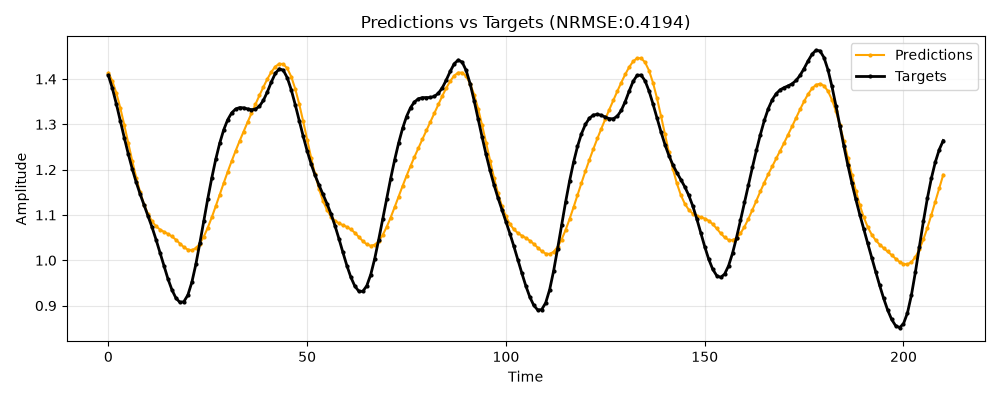
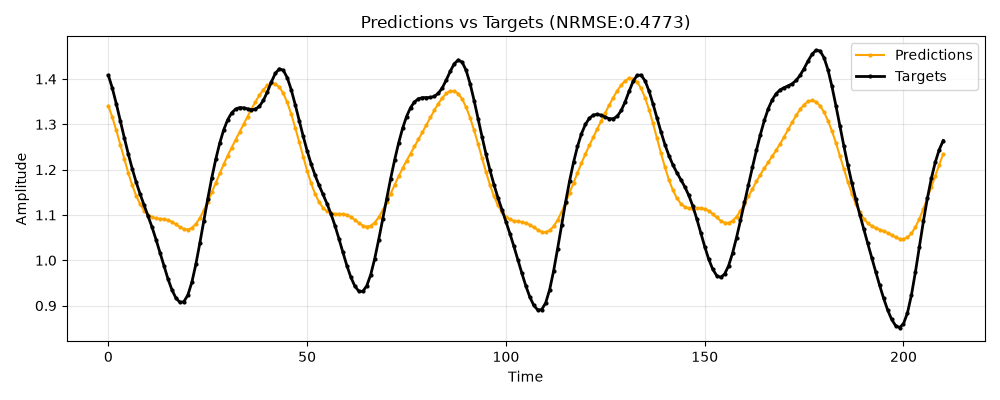
more tests for qubit and cavity vs delay.

diff --git a/classes/RC.py b/classes/RC.py
@@ -268,6 +268,61 @@ class RC(ABC):
         return float(np.sum(capacity_array)), capacity_array
     
 
+#Helper functions
+def plot_ipc_by_degree(capacities_list, total_capacity:float, figsize=(10, 4.5), save_path=None):
+    """
+    Plots IPC breakdown grouped by degree D = sum(degrees), showing absolute capacity
+    and fractional contribution per degree similar to Dambre et al. (2012).
+    
+    Parameters:
+        capacities_dict (dict): Dictionary mapping ((deg1, deg2, ...), (tau1, tau2, ...)) -> C_i
+        total_capacity (float, optional): Sum of all capacities. Calculated if None.
+        figsize (tuple): Dimensions of the figure.
+        save_path (str, optional): File path to save the plot.
+    """
+
+
+    # 2. Calculate fractional capacities per degree
+    fractions = capacities_list / total_capacity if total_capacity > 0 else np.zeros_like(capacities_list)
+
+    # 3. Create two-panel plot (Absolute & Fractional)
+    fig, (ax1, ax2) = plt.subplots(1, 2, figsize=figsize)
+
+    colors = plt.cm.viridis(np.linspace(0.2, 0.8, len(capacities_list)))
+
+    # Panel 1: Absolute Capacity per Degree (C_D)
+    bars1 = ax1.bar([f"Deg {d}" for d in range(1,len(capacities_list)+1)], capacities_list, color=colors, edgecolor="black", alpha=0.85)
+    ax1.set_ylabel("Absolute Capacity $C_D$", fontsize=11)
+    ax1.set_title("Capacity per Degree $D$", fontsize=12, fontweight="bold")
+    ax1.grid(axis="y", linestyle="--", alpha=0.5)
+
+    # Add numeric labels on top of absolute capacity bars
+    for bar in bars1:
+        yval = bar.get_height()
+        ax1.text(bar.get_x() + bar.get_width()/2.0, yval + 0.01 * max(capacities_list), 
+                 f"{yval:.3f}", ha="center", va="bottom", fontsize=9)
+
+    # Panel 2: Fraction of Total Capacity (C_D / C_total)
+    bars2 = ax2.bar([f"Deg {d}" for d in range(1,len(capacities_list)+1)], fractions * 100, color=colors, edgecolor="black", alpha=0.85)
+    ax2.set_ylabel("Fraction of Total Capacity (%)", fontsize=11)
+    ax2.set_title(f"Degree Contribution ($C_{{total}} = {total_capacity:.2f}$)", fontsize=12, fontweight="bold")
+    ax2.set_ylim(0, 105)
+    ax2.grid(axis="y", linestyle="--", alpha=0.5)
+
+    # Add percentage labels on top of fractional bars
+    for bar in bars2:
+        yval = bar.get_height()
+        ax2.text(bar.get_x() + bar.get_width()/2.0, yval + 1.5, 
+                 f"{yval:.1f}%", ha="center", va="bottom", fontsize=9, fontweight="bold")
+
+    plt.tight_layout()
+
+    if save_path:
+        plt.savefig(save_path, dpi=300, bbox_inches="tight")
+
+    plt.show()
+
+
 
 @dataclass(kw_only=True)
 class RC_Classification(RC):

diff --git a/test_scripts/test_IPC_JJ.py b/test_scripts/test_IPC_JJ.py
@@ -10,59 +10,6 @@ import matplotlib.pyplot as plt
 from pathlib import Path
 from collections import defaultdict
 
-def plot_ipc_by_degree(capacities_list, total_capacity:float, figsize=(10, 4.5), save_path=None):
-    """
-    Plots IPC breakdown grouped by degree D = sum(degrees), showing absolute capacity
-    and fractional contribution per degree similar to Dambre et al. (2012).
-    
-    Parameters:
-        capacities_dict (dict): Dictionary mapping ((deg1, deg2, ...), (tau1, tau2, ...)) -> C_i
-        total_capacity (float, optional): Sum of all capacities. Calculated if None.
-        figsize (tuple): Dimensions of the figure.
-        save_path (str, optional): File path to save the plot.
-    """
-
-
-    # 2. Calculate fractional capacities per degree
-    fractions = capacities_list / total_capacity if total_capacity > 0 else np.zeros_like(capacities_list)
-
-    # 3. Create two-panel plot (Absolute & Fractional)
-    fig, (ax1, ax2) = plt.subplots(1, 2, figsize=figsize)
-
-    colors = plt.cm.viridis(np.linspace(0.2, 0.8, len(capacities_list)))
-
-    # Panel 1: Absolute Capacity per Degree (C_D)
-    bars1 = ax1.bar([f"Deg {d}" for d in range(1,len(capacities_list)+1)], capacities_list, color=colors, edgecolor="black", alpha=0.85)
-    ax1.set_ylabel("Absolute Capacity $C_D$", fontsize=11)
-    ax1.set_title("Capacity per Degree $D$", fontsize=12, fontweight="bold")
-    ax1.grid(axis="y", linestyle="--", alpha=0.5)
-
-    # Add numeric labels on top of absolute capacity bars
-    for bar in bars1:
-        yval = bar.get_height()
-        ax1.text(bar.get_x() + bar.get_width()/2.0, yval + 0.01 * max(capacities_list), 
-                 f"{yval:.3f}", ha="center", va="bottom", fontsize=9)
-
-    # Panel 2: Fraction of Total Capacity (C_D / C_total)
-    bars2 = ax2.bar([f"Deg {d}" for d in range(1,len(capacities_list)+1)], fractions * 100, color=colors, edgecolor="black", alpha=0.85)
-    ax2.set_ylabel("Fraction of Total Capacity (%)", fontsize=11)
-    ax2.set_title(f"Degree Contribution ($C_{{total}} = {total_capacity:.2f}$)", fontsize=12, fontweight="bold")
-    ax2.set_ylim(0, 105)
-    ax2.grid(axis="y", linestyle="--", alpha=0.5)
-
-    # Add percentage labels on top of fractional bars
-    for bar in bars2:
-        yval = bar.get_height()
-        ax2.text(bar.get_x() + bar.get_width()/2.0, yval + 1.5, 
-                 f"{yval:.1f}%", ha="center", va="bottom", fontsize=9, fontweight="bold")
-
-    plt.tight_layout()
-
-    if save_path:
-        plt.savefig(save_path, dpi=300, bbox_inches="tight")
-
-    plt.show()
-
 
 
 training_data_size = 1000

diff --git a/test_scripts/test_QRC.py b/test_scripts/test_QRC.py
@@ -165,7 +165,7 @@ def custom_dissipator(N, destroy_index):
 def create_qubit(delay=1,washout=0,window_size = 20,kappa=2.7,pulse_duration =.1, pulse_time_steps = 100):
     N = 2
     initial_state = qt.basis(2,0)
-    measurement_ops = [qt.sigmaz(),qt.sigmay(),qt.qeye(2)]
+    measurement_ops = [qt.sigmaz(),qt.sigmay()]
     kappa = kappa
     
 
@@ -302,6 +302,7 @@ def run_delay_sweep(delay_min,delay_max,step=5,kappa = 2.7):
     plt.savefig(os.path.join(os.path.curdir,"delay_error.png"))
 
 
+
 run_delay_sweep(
     delay_min=1,
     delay_max=21,
@@ -310,3 +311,7 @@ run_delay_sweep(
 
 test_dynamics(delay=1,kappa=.5)
 
+qubit = create_qubit()
+fock = create_fock()
+
+qubit.evaluate_IPC()
